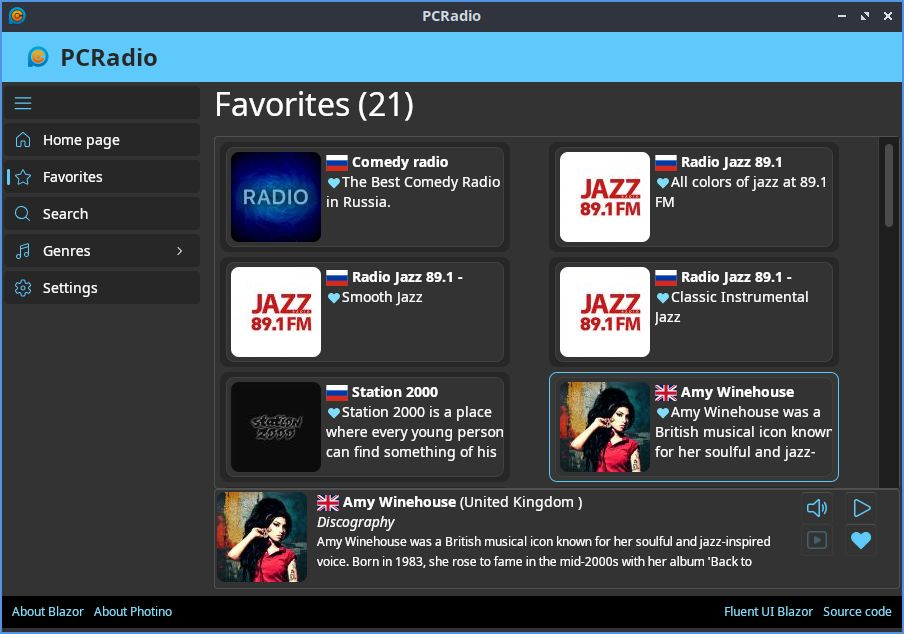
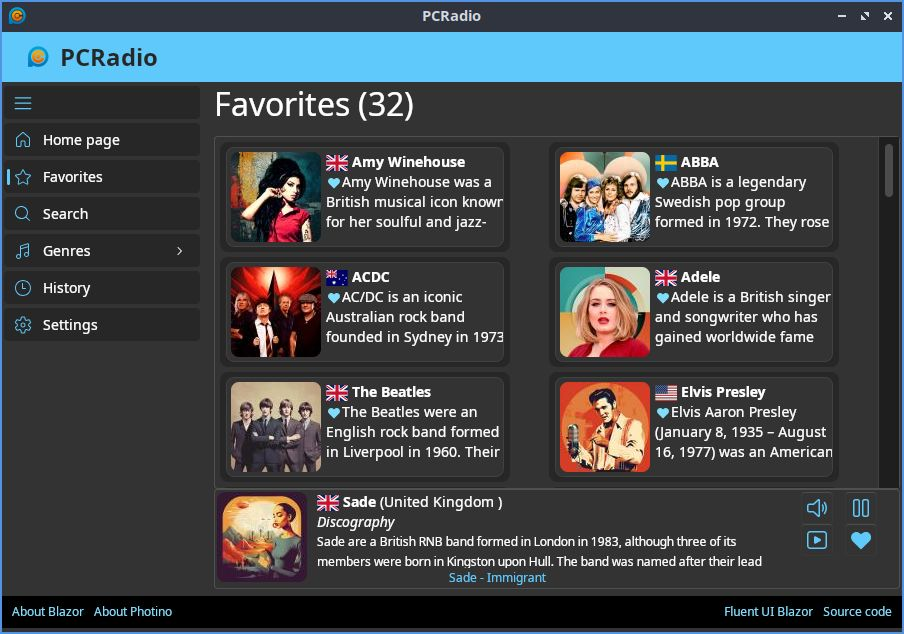
Added History page

diff --git a/src/DataAccess/HistoryRecords.cs b/src/DataAccess/HistoryRecords.cs
@@ -1,0 +1,38 @@
+using Microsoft.EntityFrameworkCore;
+using Microsoft.Extensions.Options;
+using PCRadio.DataAccess.Interfaces;
+using PCRadio.DataAccess.Models;
+
+namespace PCRadio.DataAccess;
+
+public class HistoryRecords : IHistoryRecords
+{
+    private readonly int _historyRecordsCount;
+    public HistoryRecords(IOptions<AppSettings> options)
+    {
+        _historyRecordsCount = options.Value.HistoryRecordsCount;
+    }
+    public async Task<IEnumerable<HistoryRecord>> GetAllAsync()
+    {
+        await using (var db = new Database())
+        {
+            return await db.HistoryRecords.OrderByDescending(r => r.StartTime).ToListAsync();
+        }
+    }
+
+    public async Task AddAsync(HistoryRecord record)
+    {
+        await using (var db = new Database())
+        {
+            var existingRecordsCount = await db.HistoryRecords.CountAsync();
+            if (existingRecordsCount >= _historyRecordsCount)
+            {
+                var recordsToRemove = await db.HistoryRecords.OrderBy(r => r.StartTime).Take(existingRecordsCount - _historyRecordsCount + 1).ToListAsync();
+                db.HistoryRecords.RemoveRange(recordsToRemove);
+            }
+
+            await db.HistoryRecords.AddAsync(record);
+            await db.SaveChangesAsync();
+        }
+    }
+}

diff --git a/src/DataAccess/Migrations/20251015123414_AddedHistory.cs b/src/DataAccess/Migrations/20251015123414_AddedHistory.cs
@@ -1,0 +1,35 @@
+using System;
+using Microsoft.EntityFrameworkCore.Migrations;
+
+#nullable disable
+
+namespace PCRadio.DataAccess.Migrations
+{
+    /// <inheritdoc />
+    public partial class AddedHistory : Migration
+    {
+        /// <inheritdoc />
+        protected override void Up(MigrationBuilder migrationBuilder)
+        {
+            migrationBuilder.CreateTable(
+                name: "HistoryRecords",
+                columns: table => new
+                {
+                    StartTime = table.Column<DateTime>(type: "TEXT", nullable: false),
+                    TrackName = table.Column<string>(type: "TEXT", maxLength: 500, nullable: false),
+                    StationName = table.Column<string>(type: "TEXT", maxLength: 250, nullable: false)
+                },
+                constraints: table =>
+                {
+                    table.PrimaryKey("PK_HistoryRecords", x => x.StartTime);
+                });
+        }
+
+        /// <inheritdoc />
+        protected override void Down(MigrationBuilder migrationBuilder)
+        {
+            migrationBuilder.DropTable(
+                name: "HistoryRecords");
+        }
+    }
+}

diff --git a/src/DataAccess/Models/HistoryRecord.cs b/src/DataAccess/Models/HistoryRecord.cs
@@ -1,0 +1,39 @@
+using System.ComponentModel;
+using System.ComponentModel.DataAnnotations;
+using System.ComponentModel.DataAnnotations.Schema;
+
+namespace PCRadio.DataAccess.Models;
+
+public class HistoryRecord
+{
+    [Key]
+    [ReadOnly(true)]
+    public DateTime StartTime { get; set; }
+
+    [Required]
+    [StringLength(500, MinimumLength = 3)]
+    [DisplayName("StationName")]
+    public required string TrackName { get; set; }
+
+    [Required]
+    [StringLength(250, MinimumLength = 3)]
+    [DisplayName("StationName")]
+    public required string StationName { get; set; }
+}
+
+public class HistoryRecordEqualityComparer : IEqualityComparer<HistoryRecord>
+{
+    public bool Equals(HistoryRecord? x, HistoryRecord? y)
+    {
+        if (x == null && y == null) return true;
+        if (x == null || y == null) return false;
+        return x.StartTime == y.StartTime
+            && x.TrackName == y.TrackName
+            && x.StationName == y.StationName;
+    }
+
+    public int GetHashCode(HistoryRecord obj)
+    {
+        return HashCode.Combine(obj.StartTime, obj.TrackName, obj.StationName);
+    }
+}

diff --git a/src/Services/AppStateService.cs b/src/Services/AppStateService.cs
@@ -1,9 +1,27 @@
 using PCRadio.DataAccess.Models;
+using PCRadio.Services.Interfaces;
 
 namespace PCRadio.Services;
 
-public class AppStateService : Interfaces.IAppStateService
+public class AppStateService : IAppStateService
 {
+    private HistoryRecord? _lastHistoryRecord;
+    public HistoryRecord? LastHistoryRecord
+    {
+        get => _lastHistoryRecord;
+        set
+        {
+            if (_lastHistoryRecord != value)
+            {
+                _lastHistoryRecord = value;
+                if (value != null)
+                {
+                    HistoryRecordChanged?.Invoke(value);
+                }
+            }
+        }
+    }
+
     private string _title = string.Empty;
     public string Title
     {
@@ -35,4 +53,5 @@ public class AppStateService : Interfaces.IAppStateService
 
     public event Action<string>? TitleChanged;
     public event Action<int>? CurrentStationIdChanged;
+    public event Action<HistoryRecord>? HistoryRecordChanged;
 }

diff --git a/src/DataAccess/Migrations/20251015123414_AddedHistory.Designer.cs b/src/DataAccess/Migrations/20251015123414_AddedHistory.Designer.cs
@@ -2,6 +2,7 @@
 using System;
 using Microsoft.EntityFrameworkCore;
 using Microsoft.EntityFrameworkCore.Infrastructure;
+using Microsoft.EntityFrameworkCore.Migrations;
 using Microsoft.EntityFrameworkCore.Storage.ValueConversion;
 using PCRadio.DataAccess;
 
@@ -10,9 +11,11 @@ using PCRadio.DataAccess;
 namespace PCRadio.DataAccess.Migrations
 {
     [DbContext(typeof(Database))]
-    partial class DatabaseModelSnapshot : ModelSnapshot
+    [Migration("20251015123414_AddedHistory")]
+    partial class AddedHistory
     {
-        protected override void BuildModel(ModelBuilder modelBuilder)
+        /// <inheritdoc />
+        protected override void BuildTargetModel(ModelBuilder modelBuilder)
         {
 #pragma warning disable 612, 618
             modelBuilder.HasAnnotation("ProductVersion", "9.0.9");

diff --git a/src/AppSettings.cs b/src/AppSettings.cs
@@ -20,6 +20,7 @@ public class AppSettings
     public string TrackSearchUrl { get; set; } = "https://www.youtube.com/results?search_query={0}";
     public string CurrentTrackInfoUrl { get; set; } = "https://meta.pcradio.ru/{0}_current.json";
     public int PageSize { get; set; } = 50;
+    public int HistoryRecordsCount { get; set; } = 100;
     public bool NeedsDatabaseUpdate { get; set; } = false;
     public Quality Quality { get; set; } = Quality.Medium;
     private string _appDataPath = Path.Combine(Environment.GetFolderPath(Environment.SpecialFolder.LocalApplicationData), APPLICATION_NAME);

diff --git a/src/Services/Interfaces/IAppStateService.cs b/src/Services/Interfaces/IAppStateService.cs
@@ -1,9 +1,14 @@
+using PCRadio.Components.Pages;
+using PCRadio.DataAccess.Models;
+
 namespace PCRadio.Services.Interfaces;
 
 public interface IAppStateService
 {
     string Title { get; set; }
     int CurrentStationId { get; set; }
+    HistoryRecord? LastHistoryRecord { get; set; }
     event Action<string>? TitleChanged;
     event Action<int>? CurrentStationIdChanged;
+    event Action<HistoryRecord>? HistoryRecordChanged;
 }

diff --git a/src/Program.cs b/src/Program.cs
@@ -58,6 +58,7 @@ public class Program
         builder.Services.AddTransient<IStations, Stations>();
         builder.Services.AddTransient<IGenres, Genres>();
         builder.Services.AddTransient<ICountries, Countries>();
+        builder.Services.AddTransient<IHistoryRecords, HistoryRecords>();
         builder.Services.AddSingleton<IAppStateService, AppStateService>();
 
         var app = builder.Build();

diff --git a/src/DataAccess/Database.cs b/src/DataAccess/Database.cs
@@ -21,4 +21,5 @@ public class Database : DbContext
     public virtual DbSet<StationCity> StationCities { get; set; }
     public virtual DbSet<StationGenre> StationGenres { get; set; }
     public virtual DbSet<StationSubGenre> StationSubGenres { get; set; }
+    public virtual DbSet<HistoryRecord> HistoryRecords { get; set; }
 }

diff --git a/src/DataAccess/Interfaces/IHistoryRecords.cs b/src/DataAccess/Interfaces/IHistoryRecords.cs
@@ -1,0 +1,9 @@
+using PCRadio.DataAccess.Models;
+
+namespace PCRadio.DataAccess.Interfaces;
+
+public interface IHistoryRecords
+{
+    Task<IEnumerable<HistoryRecord>> GetAllAsync();
+    Task AddAsync(HistoryRecord record);
+}
